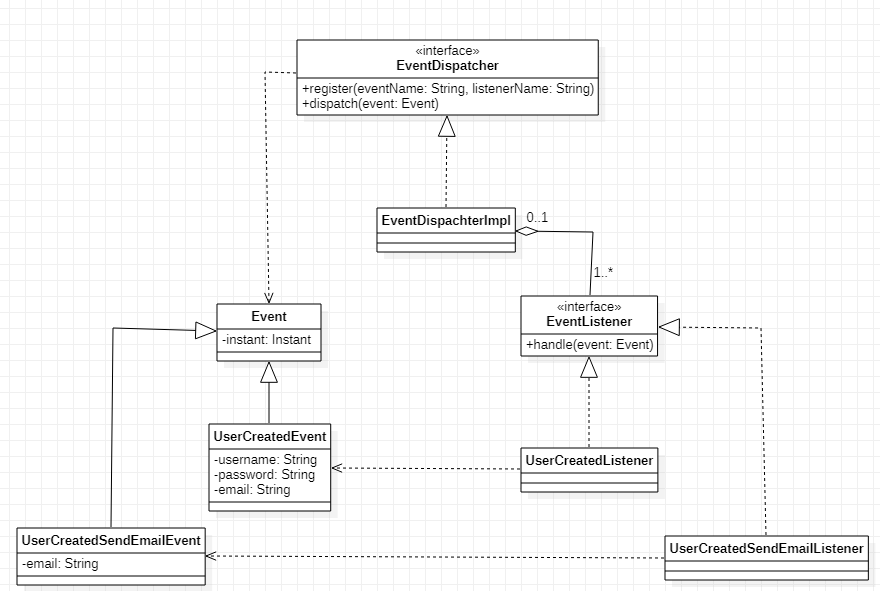
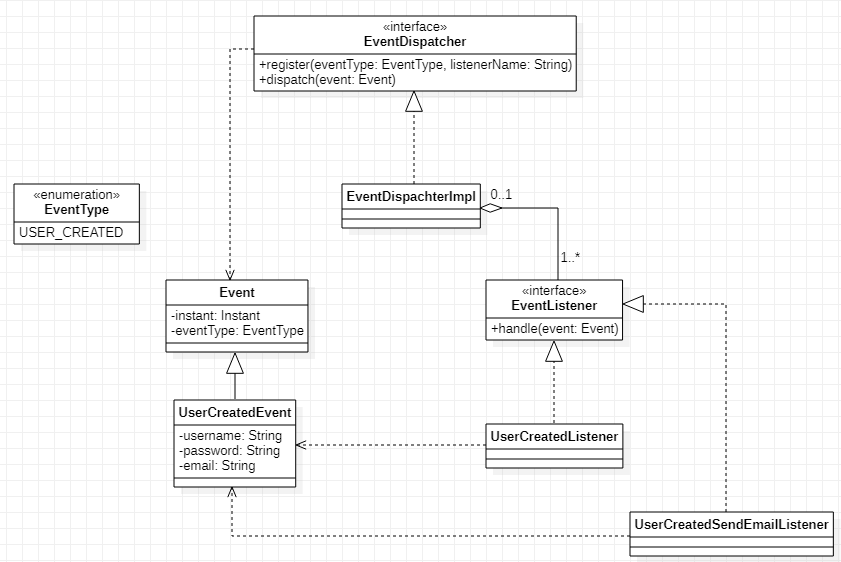
fix

diff --git a/application/src/main/java/com/event/arch/App.java b/application/src/main/java/com/event/arch/App.java
@@ -1,9 +1,8 @@
 package com.event.arch;
 
 import com.event.arch.event_dispatcher.EventDispatcherImpl;
-import com.event.arch.events.user.UserCreatedEvent;
+import com.event.arch.events.EventType;
 import com.event.arch.events.user.UserCreatedListener;
-import com.event.arch.events.user.UserCreatedSendEmailEvent;
 import com.event.arch.events.user.UserCreatedSendEmailListener;
 import com.event.arch.repositories.UserRepositoryInMemoryImpl;
 import com.event.arch.services.CreateUserService;
@@ -13,13 +12,11 @@ public class App {
     public static void main(String[] args) {
         var userRepository = new UserRepositoryInMemoryImpl();
         var eventDispatcher = new EventDispatcherImpl();
-        var userCreatedEventClassName = UserCreatedEvent.class.getName();
         var userCreatedListenerClassName = UserCreatedListener.class.getName();
-        var userCreatedSendEmailEventClassName = UserCreatedSendEmailEvent.class.getName();
         var userCreatedSendEmailListenerClassName = UserCreatedSendEmailListener.class.getName();
-        eventDispatcher.register(userCreatedEventClassName, userCreatedListenerClassName);
-        eventDispatcher.register(userCreatedSendEmailEventClassName, userCreatedSendEmailListenerClassName);
+        eventDispatcher.register(EventType.USER_CREATED, userCreatedListenerClassName);
+        eventDispatcher.register(EventType.USER_CREATED, userCreatedSendEmailListenerClassName);
         var createUserService = new CreateUserService(eventDispatcher, userRepository);
-        createUserService.createUser("Pedro", "email@email.com", "password");
+        createUserService.createUser("User", "user@email.com", "password");
     }
 }

diff --git a/infra/src/main/java/com/event/arch/event_dispatcher/EventDispatcherImpl.java b/infra/src/main/java/com/event/arch/event_dispatcher/EventDispatcherImpl.java
@@ -8,17 +8,18 @@ import java.util.Map;
 import com.event.arch.events.Event;
 import com.event.arch.events.EventDispatcher;
 import com.event.arch.events.EventListener;
+import com.event.arch.events.EventType;
 
 public class EventDispatcherImpl implements EventDispatcher {
 
-    private final Map<String, List<EventListener<Event>>> eventMapping;
+    private final Map<EventType, List<EventListener<Event>>> eventMapping;
 
     public EventDispatcherImpl() {
         this.eventMapping = new HashMap<>();
     }
 
     @Override
-    public void register(String eventName, String listenerName) {
+    public void register(EventType eventName, String listenerName) {
         try {
             var listenerClass = (Class<EventListener<Event>>) Class.forName(listenerName);
             var eventListener = listenerClass.getConstructor().newInstance();
@@ -39,10 +40,9 @@ public class EventDispatcherImpl implements EventDispatcher {
 
     @Override
     public void dispatch(Event event) {
-        if (!this.eventMapping.containsKey(event.getName()))
-            throw new RuntimeException("No listener registred for event: " + event.getName());
-        var eventName = event.getName();
-        var eventListeners = this.eventMapping.get(eventName);
+        if (!this.eventMapping.containsKey(event.getEventType()))
+            throw new RuntimeException("No listener registred for event: " + event.getEventType());
+        var eventListeners = this.eventMapping.get(event.getEventType());
         eventListeners.forEach(eventListener -> eventListener.handle(event));
     }
 }

diff --git a/domain/src/main/java/com/event/arch/services/CreateUserService.java b/domain/src/main/java/com/event/arch/services/CreateUserService.java
@@ -6,7 +6,6 @@ import java.util.UUID;
 import com.event.arch.entities.User;
 import com.event.arch.events.EventDispatcher;
 import com.event.arch.events.user.UserCreatedEvent;
-import com.event.arch.events.user.UserCreatedSendEmailEvent;
 import com.event.arch.repositories.UserRepository;
 
 public class CreateUserService {
@@ -23,8 +22,6 @@ public class CreateUserService {
         var user = new User(UUID.randomUUID(), username, password, email);
         this.userRepository.add(user);
         var userCreatedEvent = new UserCreatedEvent(Instant.now(), username, email);
-        var userCreatedSendEmailEvent = new UserCreatedSendEmailEvent(Instant.now(), email);
         this.eventDispatcher.dispatch(userCreatedEvent);
-        this.eventDispatcher.dispatch(userCreatedSendEmailEvent);
     }
 }

diff --git a/domain/src/main/java/com/event/arch/events/Event.java b/domain/src/main/java/com/event/arch/events/Event.java
@@ -5,16 +5,18 @@ import java.time.Instant;
 public abstract class Event {
 
     private final Instant instant;
+    private final EventType eventType;
 
-    public Event(Instant instant) {
+    public Event(Instant instant, EventType eventType) {
         this.instant = instant;
+        this.eventType = eventType;
     }
 
     public final Instant getInstant() {
         return instant;
     }
 
-    public String getName() {
-        return this.getClass().getName();
+    public EventType getEventType() {
+        return eventType;
     }
 }

diff --git a/domain/src/main/java/com/event/arch/events/user/UserCreatedEvent.java b/domain/src/main/java/com/event/arch/events/user/UserCreatedEvent.java
@@ -3,6 +3,7 @@ package com.event.arch.events.user;
 import java.time.Instant;
 
 import com.event.arch.events.Event;
+import com.event.arch.events.EventType;
 
 public final class UserCreatedEvent extends Event {
 
@@ -10,7 +11,7 @@ public final class UserCreatedEvent extends Event {
     private final String email;
 
     public UserCreatedEvent(Instant instant, String username, String email) {
-        super(instant);
+        super(instant, EventType.USER_CREATED);
         this.username = username;
         this.email = email;
     }

diff --git a/domain/src/main/java/com/event/arch/events/user/UserCreatedSendEmailListener.java b/domain/src/main/java/com/event/arch/events/user/UserCreatedSendEmailListener.java
@@ -4,10 +4,10 @@ import java.util.logging.Logger;
 
 import com.event.arch.events.EventListener;
 
-public class UserCreatedSendEmailListener implements EventListener<UserCreatedSendEmailEvent> {
+public class UserCreatedSendEmailListener implements EventListener<UserCreatedEvent> {
 
     @Override
-    public void handle(UserCreatedSendEmailEvent userCreatedSendEmailEvent) {
+    public void handle(UserCreatedEvent userCreatedEvent) {
         Logger.getGlobal().info("In UserCreatedSendEmailListener handle method");
     }
 }

diff --git a/domain/src/main/java/com/event/arch/events/EventDispatcher.java b/domain/src/main/java/com/event/arch/events/EventDispatcher.java
@@ -2,7 +2,7 @@ package com.event.arch.events;
 
 public interface EventDispatcher {
 
-    void register(String eventName, String listenerName);
+    void register(EventType eventName, String listenerName);
 
     void dispatch(Event event);
 }

diff --git a/domain/src/main/java/com/event/arch/events/EventType.java b/domain/src/main/java/com/event/arch/events/EventType.java
@@ -1,0 +1,6 @@
+package com.event.arch.events;
+
+public enum EventType {
+    
+    USER_CREATED
+}
